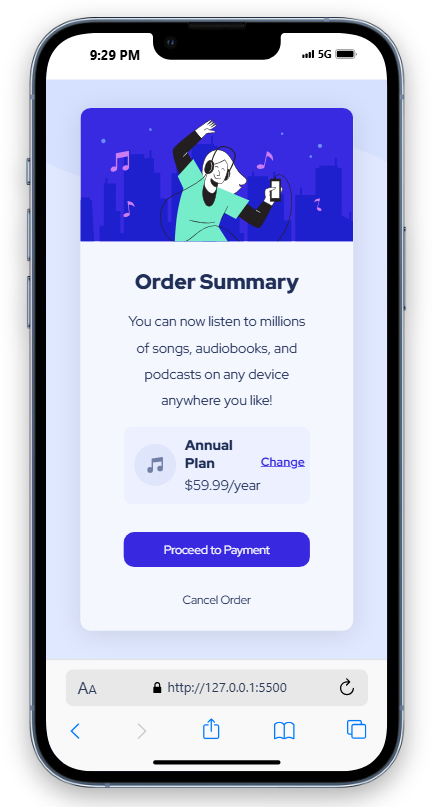
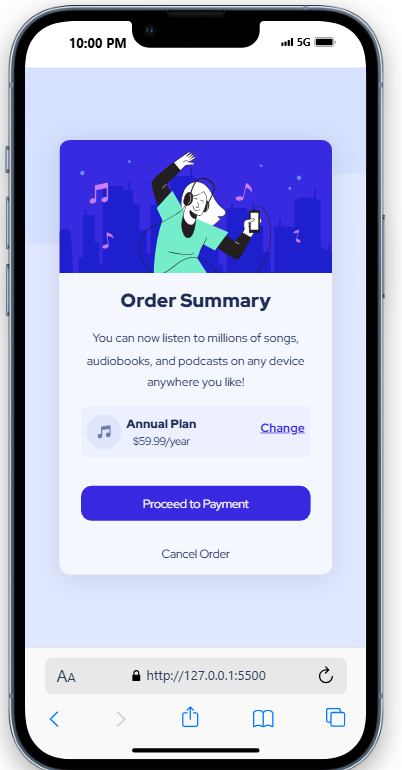
modify

diff --git a/style.css b/style.css
@@ -18,11 +18,11 @@ body {
     background-color: var(--pale-blue);
     background-image: url('./images/pattern-background-desktop.svg');
     background-repeat: no-repeat;
+    background-origin: inherit;
     background-size: contain;
     display: flex;
     justify-content: center;
     align-items: center;
-
 }
 
 main {
@@ -55,7 +55,7 @@ main {
 }
 
 .card-content h1{
-    font-size: 24px;
+    font-size: 28px;
     font-weight: 900;
     color: var(--dark-blue);
     margin-bottom: 16px;
@@ -98,7 +98,7 @@ main {
     top: 10px
 }
 
-.left h3{
+.card-plan-text h3{
     font-size: 16px;
     font-weight: 900;
     color: var(--dark-blue);
@@ -134,4 +134,45 @@ main {
     background-color: transparent;
     color: var(--dark-blue);
     border: 2px solid transparent;
+}
+
+/* Mobile Response */
+@media (max-width: 600px) {
+    body { 
+        background-color: var(--pale-blue);
+        background-image: url('./images/pattern-background-mobile.svg');
+    }
+
+    #card
+    {
+        height: 75%;
+        max-width: 320px;
+    }
+
+    .card-content{
+        padding: 12px 25px;
+    }
+
+    .card-content h1{
+        font-size: 22px;
+    }
+    .plan{
+        padding: 0px 5px;
+    }
+
+    .left>img {
+        margin-right: 5px;
+        width: 40px;
+    }
+
+    .card-content p{
+        font-size: 14px;
+        line-height: 25px;
+    }
+    .card-plan-text h3{
+        font-size: 14px;
+    }
+    .card-plan-text p{
+        font-size: 12px;
+    }
 }
